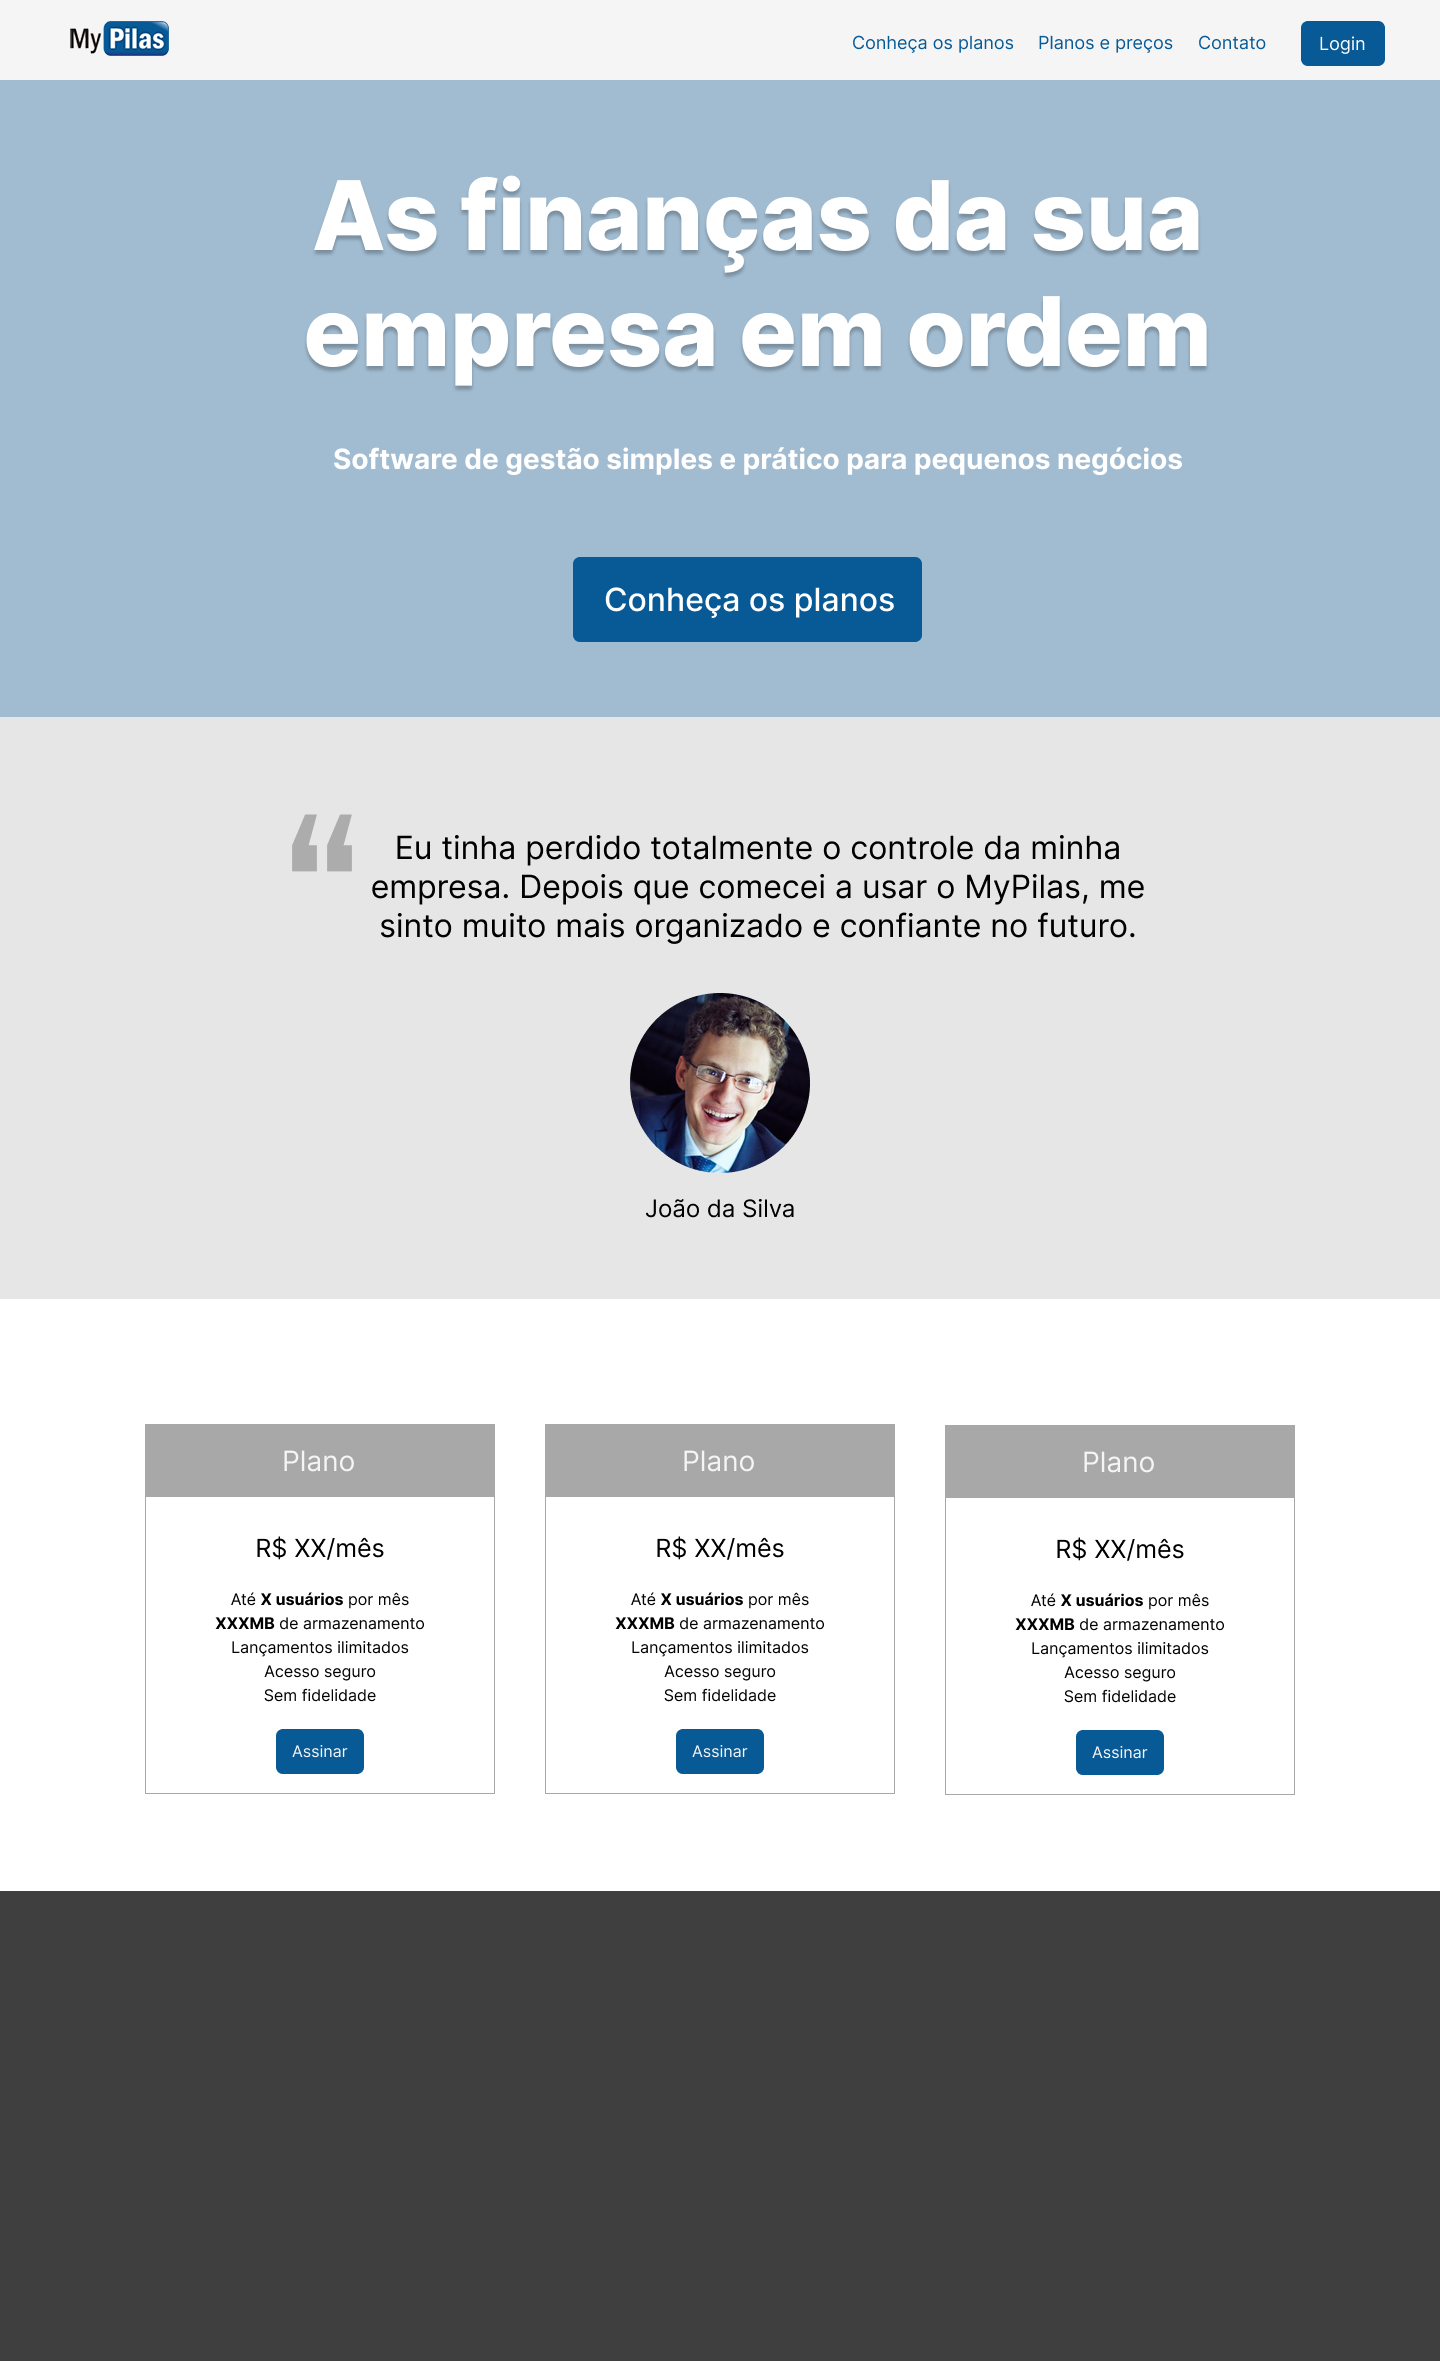
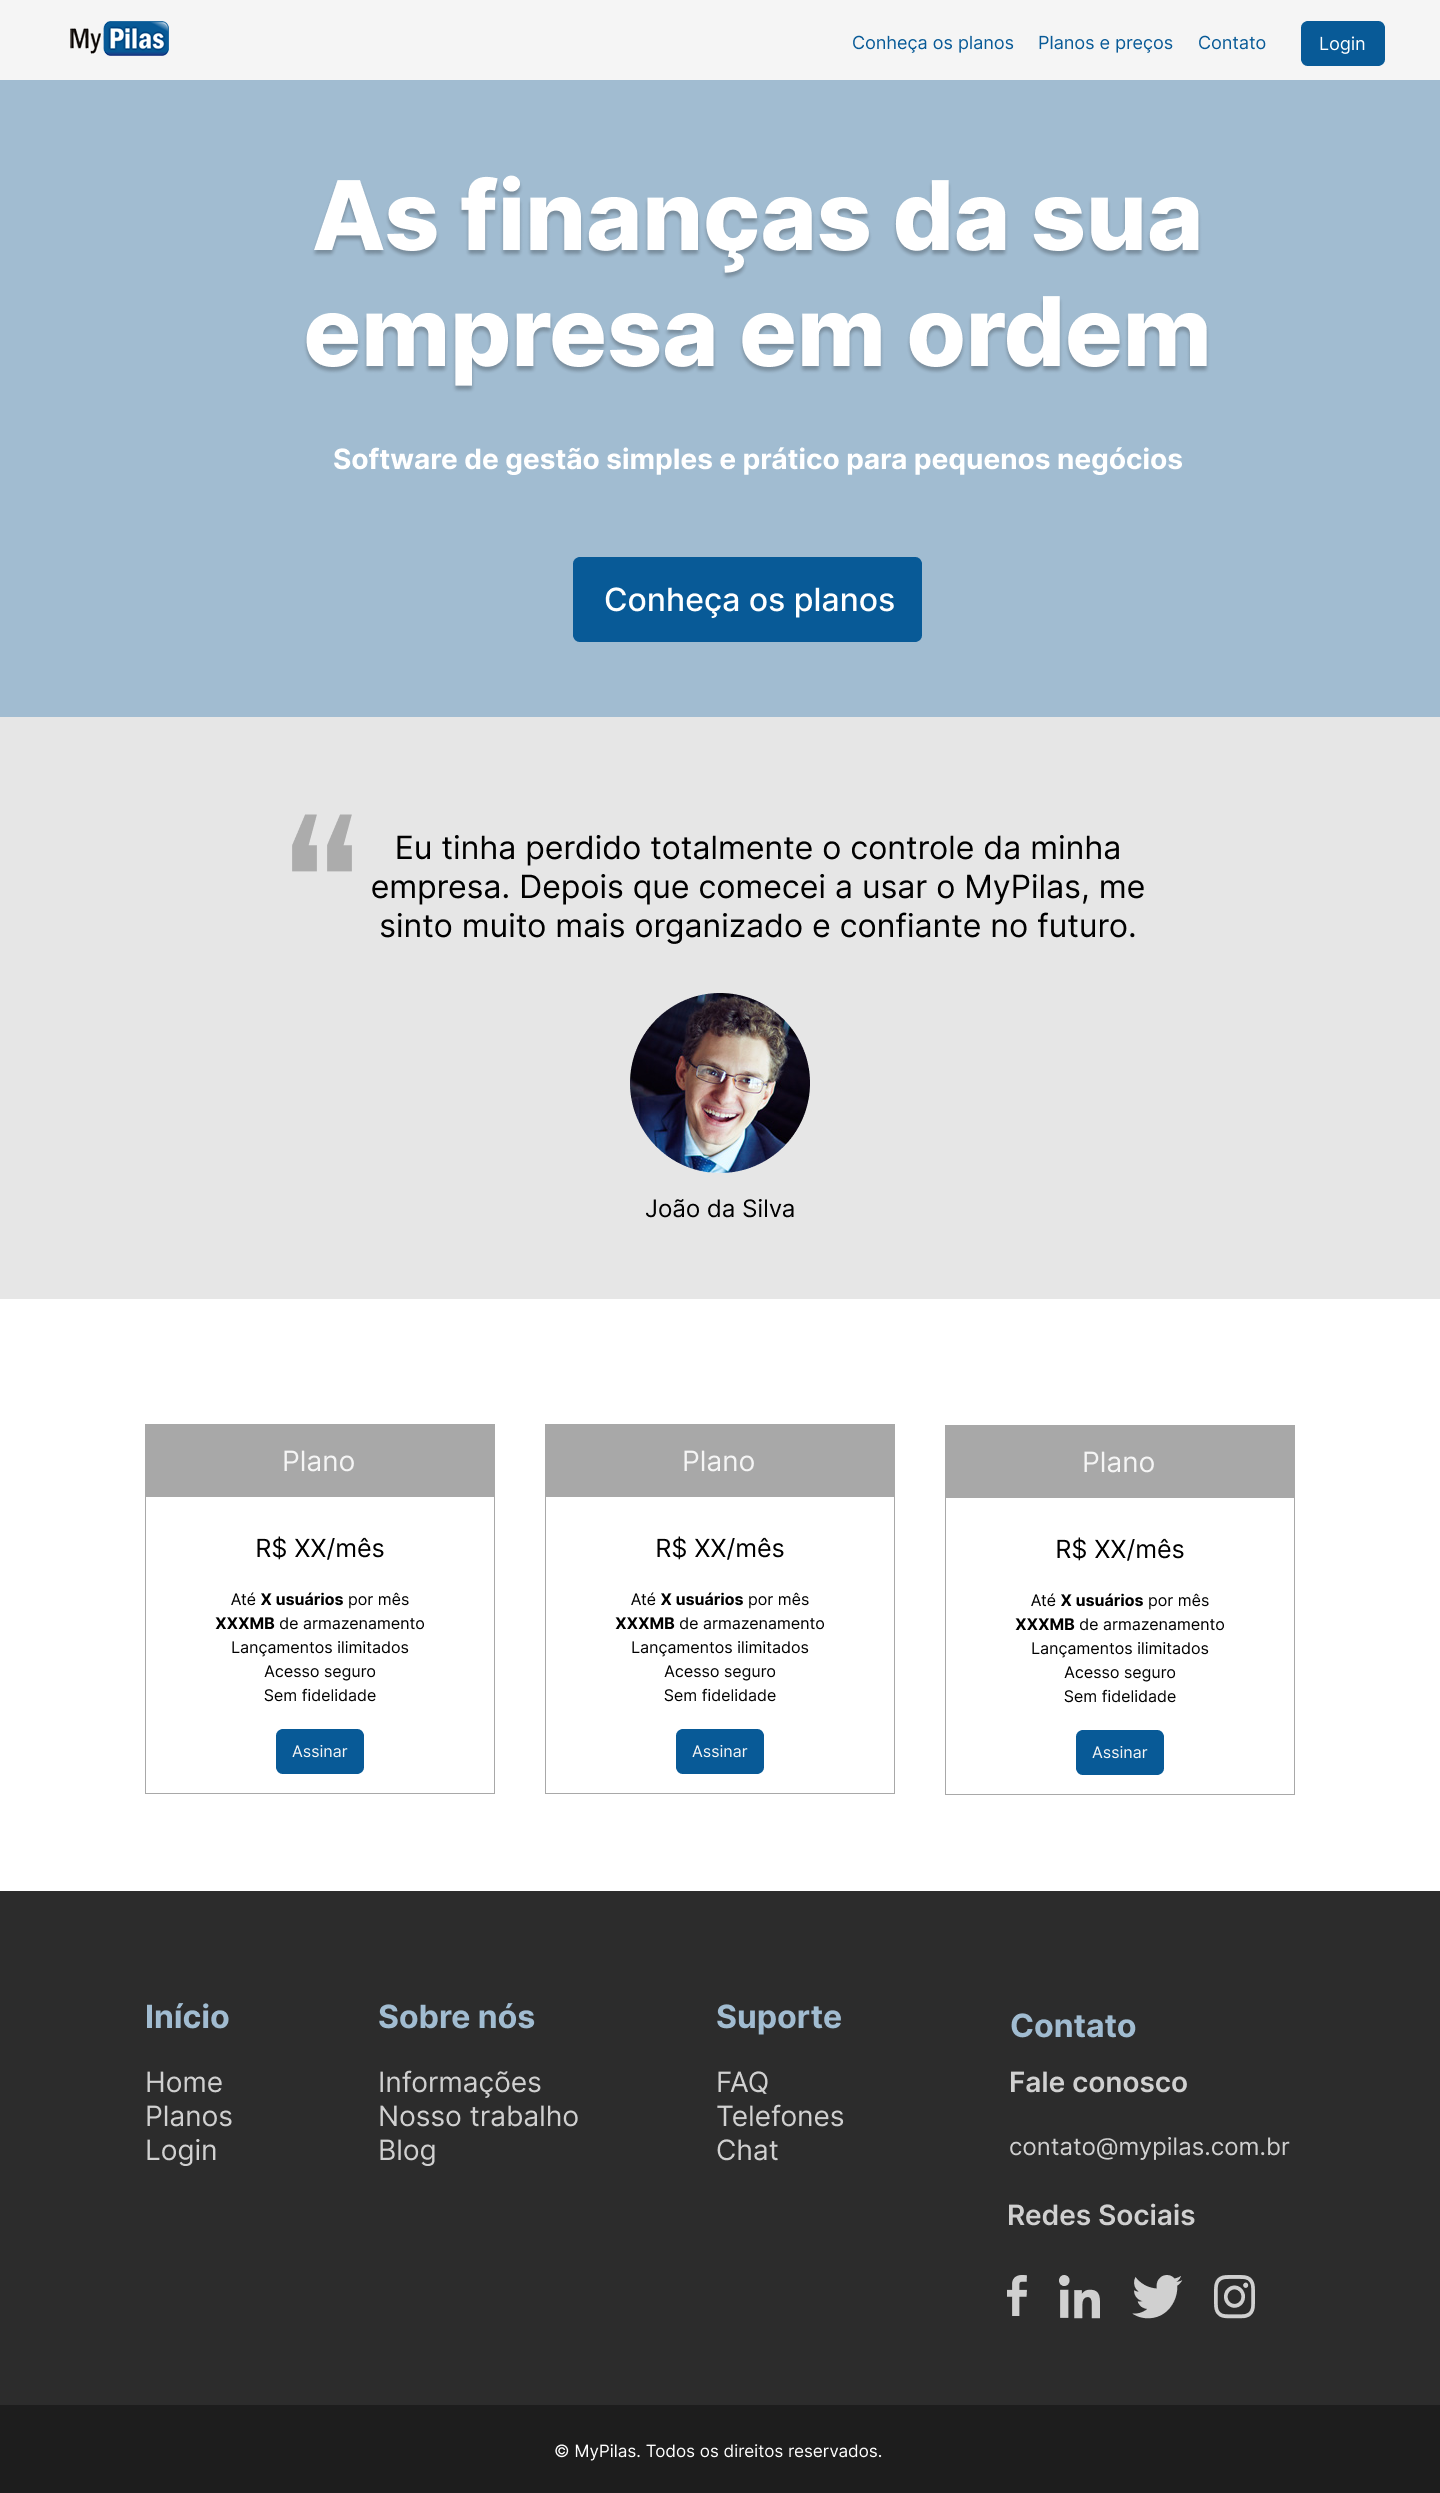
Adicionando rodapé

diff --git a/index.html b/index.html
@@ -104,5 +104,74 @@
         </div>
     </div>
 
+    <footer class="layout-rodape">
+        <div class="container">
+            <div class="rodape">
+               <div class="rodape__info">
+                   <div class="row">
+                       <div class="col-sm-3">
+                           <h2 class="rodape__info__titulo">Início</h2>
+                           <div class="rodape__info__opcoes">
+                               <p>Home</p>
+                               <p>Planos</p>
+                               <p>Login</p>
+                           </div>
+                       </div>
+
+                       <div class="col-sm-3">
+                           <h2 class="rodape__info__titulo">Sobre nós</h2>
+                           <div class="rodape__info__opcoes">
+                               <p>Informações</p>
+                               <p>Nosso trabalho</p>
+                               <p>Blog</p>
+                           </div>
+                       </div>
+
+                       <div class="col-sm-3">
+                           <h2 class="rodape__info__titulo">Suporte</h2>
+                           <div class="rodape__info__opcoes">
+                               <p>FAQ</p>
+                               <p>Telefones</p>
+                               <p>Chat</p>
+                           </div>
+                       </div>
+
+                       <div class="col-sm-3">
+                           <h2 class="rodape__info__titulo">Contato</h2>
+                           <div class="rodape__info__opcoes">
+                               <h2>Fale conosco</h2><br>
+                               <p>contato@mypilas.com.br</p><br>
+                               <h2>Redes Sociais</h2><br>
+                               <div class="rodape__info__opcoes__img">
+                                   <div class="vector__facebook">
+                                       <img src="img/brandico_facebook.png" width="14" height="29">
+                                   </div>
+
+                                   <div class="vector__facebook">
+                                       <img src="img/Vector.png" width="29" height="29">
+                                   </div>
+
+                                   <div class="vector__facebook">
+                                       <img src="img/Vector%20(1).png" width="29" height="29">
+                                   </div>
+
+                                   <div class="vector__facebook">
+                                       <img src="img/Vector%20(2).png" width="29" height="29">
+                                   </div>
+                               </div>
+                           </div>
+                       </div>
+                   </div>
+               </div>
+
+            </div>
+        </div>
+
+    </footer>
+    <footer class="rodape__direitos">
+        <div class="container">
+            <p>&COPY; MyPilas. Todos os direitos reservados.</p>
+        </div>
+    </footer>
 </body>
 </html>

diff --git a/css/componentes.css b/css/componentes.css
@@ -121,6 +121,13 @@
     margin-top: 10px;
 }
 
+.rodape__direitos{
+    color: white;
+
+    text-align: center;
+
+    font-size: 1.1rem;
+}
 @media (min-width: 992px) {
     .chamada{
         padding-left: 10%;
@@ -135,4 +142,45 @@
 
         font-size: 2.8rem;
     }
+}
+
+.rodape__info{
+    margin: 0;
+    padding: 20px;
+
+    font-size: 1.4rem;
+
+    text-align: left;
+}
+
+.rodape__info__titulo{
+    color: #A1BCD1;
+
+}
+
+.rodape__info__opcoes{
+    list-style: none;
+
+    color: #D0D0D0;
+    line-height: 10px;
+
+    font-size: 1em;
+}
+
+.rodape__direitos{
+    padding: 10px 0;
+    background-color: #1D1D1D;
+}
+
+.rodape__info__opcoes > h2{
+    font-size: 1em;
+}
+
+.rodape__info__opcoes__img{
+    padding: 10px 0;
+}
+
+.rodape__info__opcoes__img > div{
+    padding: 0 7px;
+    display: inline-block;
 }

diff --git a/css/layout.css b/css/layout.css
@@ -24,3 +24,10 @@
 .layout-planos{
     padding: 80px 0;
 }
+
+.layout-rodape{
+    background-color: #2C2C2C;
+
+    color: white;
+    text-align: center;
+}
